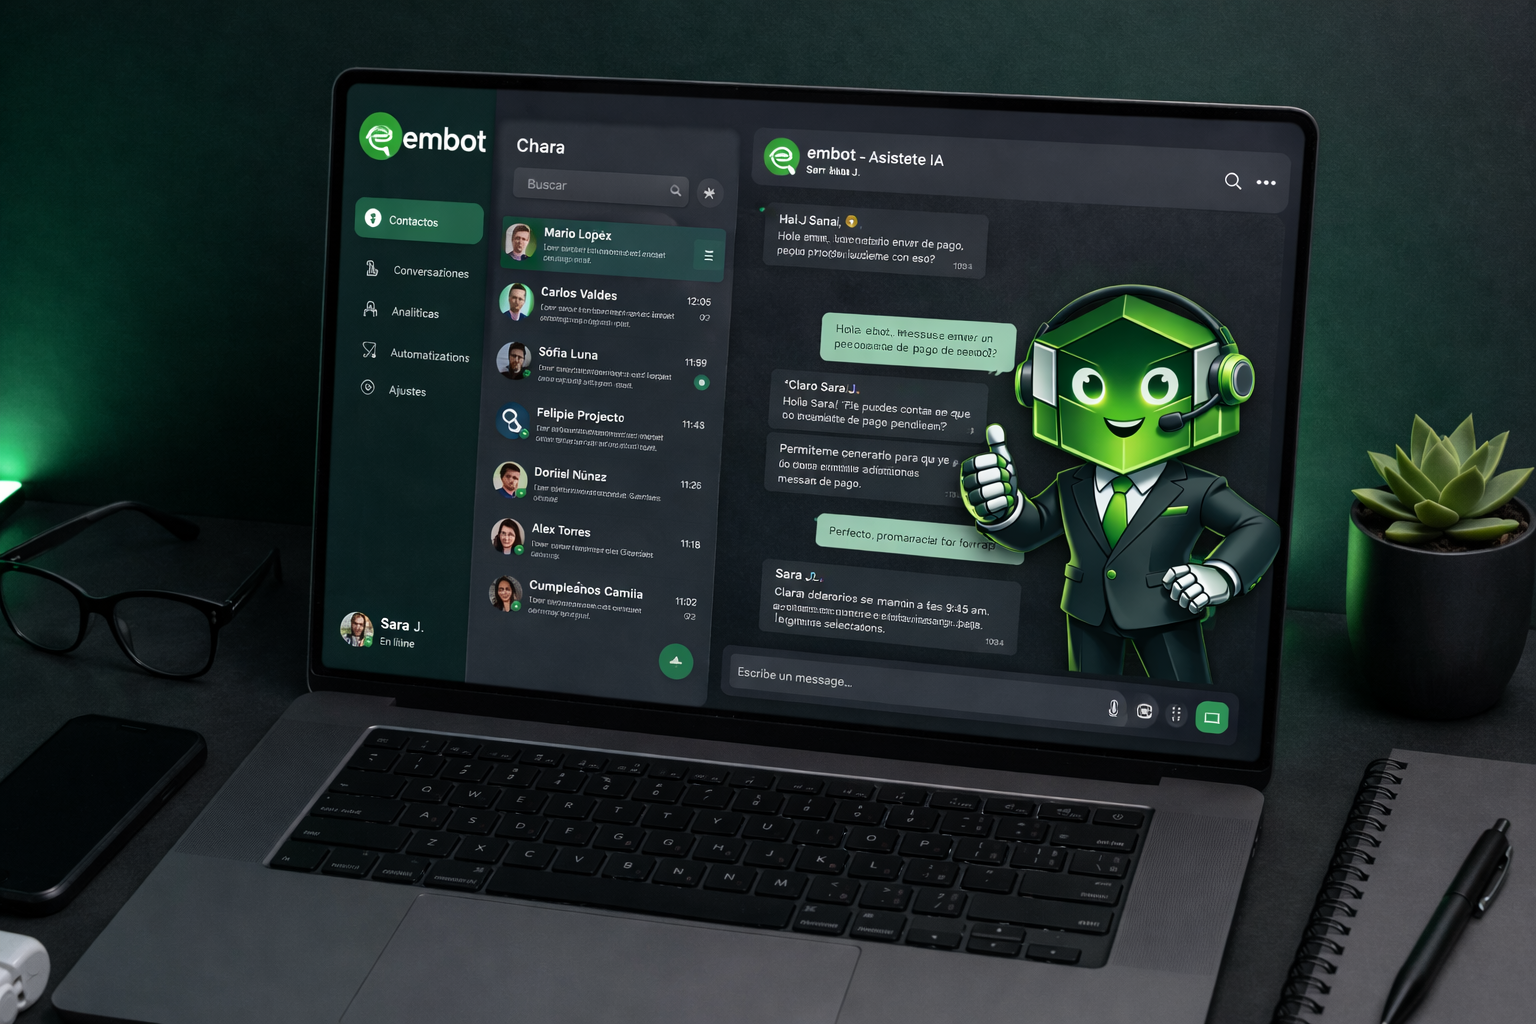
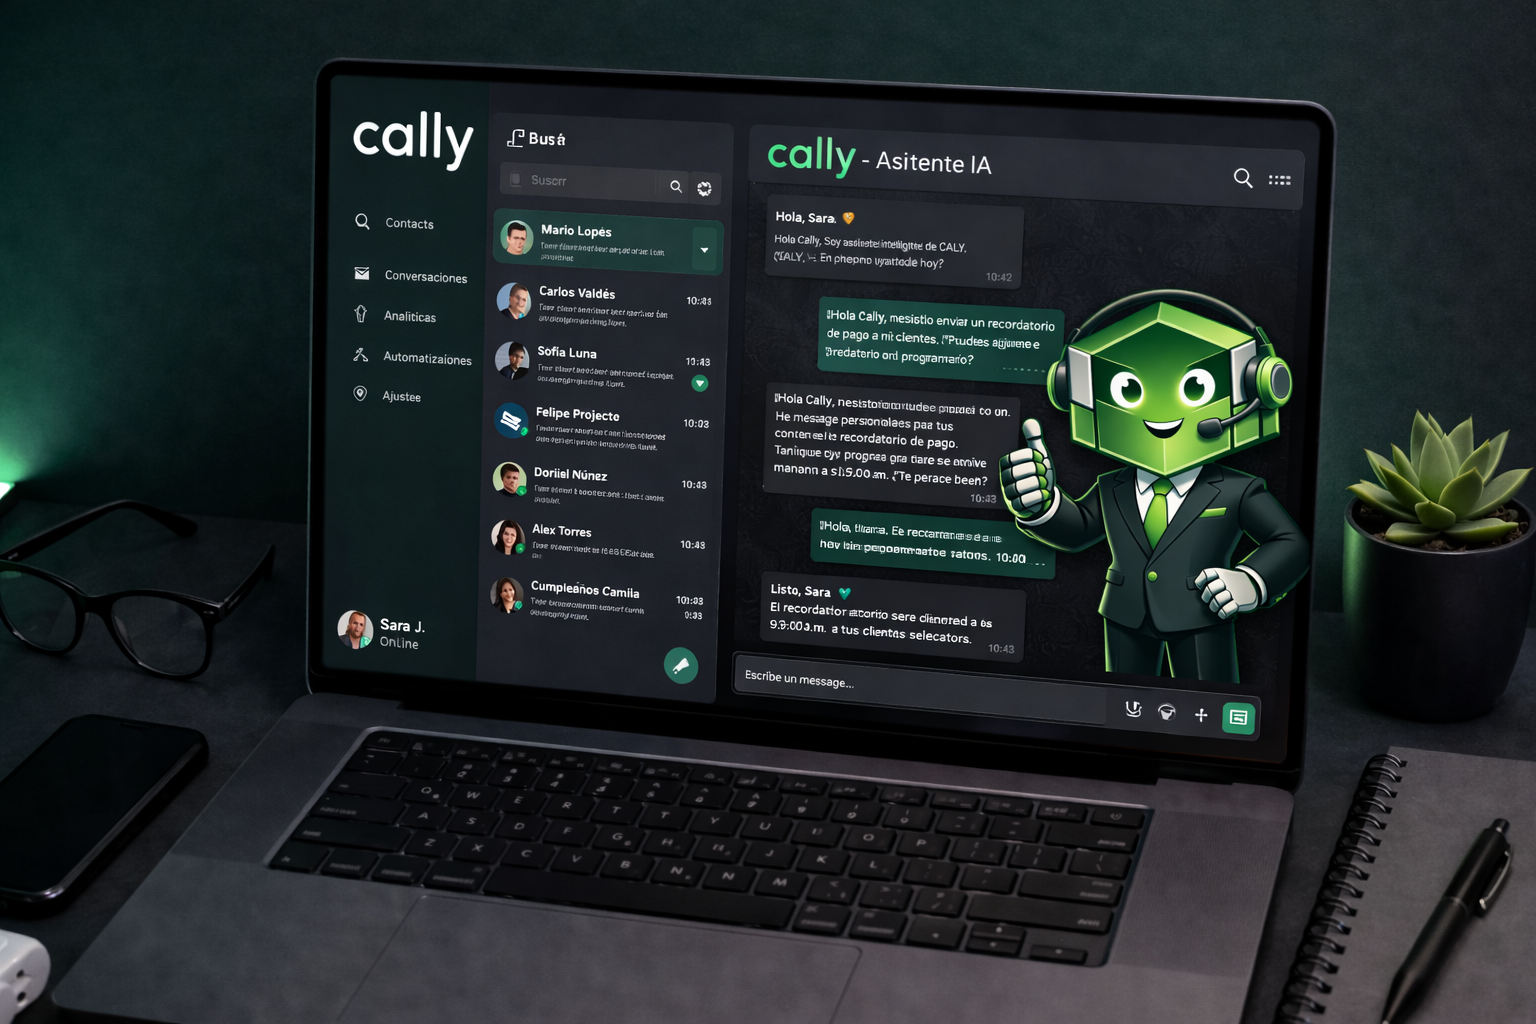
feat: simplify chatbot toggle in templates UI

diff --git a/src/pages/Templates.tsx b/src/pages/Templates.tsx
@@ -1,7 +1,7 @@
 import { useState, useEffect } from 'react';
 import { WA_API_URL } from '../config';
 import { Card } from '../components/ui/Card';
-import { Plus, Search, FileText, Edit2, Trash2, Save, X, Layers, MessageSquare, Tag, Sparkles, Link as LinkIcon, ExternalLink, Bot } from 'lucide-react';
+import { Plus, Search, FileText, Edit2, Trash2, Save, X, Layers, MessageSquare, Tag, Link as LinkIcon, ExternalLink, Bot } from 'lucide-react';
 
 type Template = {
   id: string;
@@ -162,10 +162,7 @@ export default function Templates() {
     }
   };
 
-  const updateMenuConfig = (newConfig: any) => {
-    setMenuConfig(newConfig);
-    localStorage.setItem('chatbot_menu_config', JSON.stringify(newConfig));
-  };
+
 
   const updateKeywordConfig = (newConfig: any) => {
     setKeywordConfig(newConfig);
@@ -249,27 +246,14 @@ export default function Templates() {
         <div className="flex flex-col md:flex-row md:items-center justify-between gap-6">
           <div className="flex items-center gap-4">
             <div className="w-12 h-12 rounded-2xl bg-brand-500/10 flex items-center justify-center text-brand-600 dark:text-brand-400 border border-brand-500/20">
-              <Sparkles className="w-6 h-6" />
+              <Bot className="w-6 h-6" />
             </div>
             <div>
-              <h3 className="text-text-main font-semibold">Auto-Respuesta Global</h3>
-              <p className="text-xs text-text-muted">Si alguien te escribe por primera vez, el sistema responderá automáticamente con la plantilla elegida.</p>
+              <h3 className="text-text-main font-semibold">Asistente Cally (Flujo Principal)</h3>
+              <p className="text-xs text-text-muted">Enciende o apaga tu chatbot avanzado de WhatsApp. El flujo y las 5 opciones se manejan desde el servidor.</p>
             </div>
           </div>
           <div className="flex flex-wrap items-center gap-4">
-            <div className="flex items-center gap-3 bg-surface p-2 rounded-xl border border-border-subtle">
-              <span className="text-xs text-text-muted ml-2">Seleccionar Plantilla:</span>
-              <select 
-                className="bg-surface text-sm text-text-main outline-none px-3 py-1 rounded-lg border border-border-subtle min-w-[200px]"
-                value={autoResponse.templateId}
-                onChange={(e) => updateAutoResponse({ ...autoResponse, templateId: e.target.value })}
-              >
-                <option value="" disabled className="bg-card text-text-main">Selecciona una plantilla...</option>
-                {templates.map(t => (
-                  <option key={t.id} value={t.id} className="bg-card text-text-main">{t.name}</option>
-                ))}
-              </select>
-            </div>
             <button
               onClick={() => updateAutoResponse({ ...autoResponse, enabled: !autoResponse.enabled })}
               className={`px-6 py-2 rounded-xl text-sm font-semibold transition-all border ${
@@ -284,73 +268,6 @@ export default function Templates() {
         </div>
       </Card>
 
-      <Card className="p-6 border-brand-500/20 bg-brand-500/5">
-        <div className="flex flex-col gap-6">
-          <div className="flex flex-col md:flex-row md:items-center justify-between gap-6">
-            <div className="flex items-center gap-4">
-              <div className="w-12 h-12 rounded-2xl bg-brand-500/10 flex items-center justify-center text-brand-600 dark:text-brand-400 border border-brand-500/20">
-                <Layers className="w-6 h-6" />
-              </div>
-              <div>
-                <h3 className="text-text-main font-semibold">Menú Interactivo (Chatbot)</h3>
-                <p className="text-xs text-text-muted">Envía un menú de opciones después del saludo y responde automáticamente a números.</p>
-              </div>
-            </div>
-            <button
-              onClick={() => updateMenuConfig({ ...menuConfig, enabled: !menuConfig.enabled })}
-              className={`px-6 py-2 rounded-xl text-sm font-semibold transition-all border ${
-                menuConfig.enabled 
-                  ? 'bg-brand-600 border-brand-500 text-text-main shadow-lg shadow-brand-500/20' 
-                  : 'bg-surface border-border-subtle text-text-muted hover:text-text-main'
-              }`}
-            >
-              {menuConfig.enabled ? 'Bot Activado' : 'Bot Desactivado'}
-            </button>
-          </div>
-
-          {menuConfig.enabled && (
-            <div className="grid grid-cols-1 md:grid-cols-2 lg:grid-cols-4 gap-4 animate-in fade-in slide-in-from-top-2">
-              {[ "1", "2", "3", "4" ].map(num => (
-                <div key={num} className="bg-surface/50 p-4 rounded-xl border border-border-subtle space-y-3">
-                  <div className="flex items-center justify-between">
-                    <label className="block text-[10px] text-text-muted font-bold uppercase tracking-widest">Opción {num}</label>
-                  </div>
-                  
-                  <div>
-                    <select 
-                      className="w-full bg-surface border border-border-subtle rounded-lg py-1.5 px-3 text-xs text-text-main outline-none focus:border-brand-500"
-                      value={menuConfig.options[num]?.templateId || ''}
-                      onChange={(e) => {
-                        const newOpts = { ...menuConfig.options, [num]: { ...menuConfig.options[num], templateId: e.target.value } };
-                        updateMenuConfig({ ...menuConfig, options: newOpts });
-                      }}
-                    >
-                      <option value="" disabled className="bg-card text-text-main">Asignar plantilla...</option>
-                      {templates.map(t => (
-                        <option key={t.id} value={t.id} className="bg-card text-text-main">{t.name}</option>
-                      ))}
-                    </select>
-                  </div>
-
-                  <div>
-                    <label className="block text-[8px] text-text-muted mb-1 font-bold uppercase tracking-widest pl-1">WhatsApp de Asesores (Separa con ,)</label>
-                    <input 
-                      type="text"
-                      className="w-full bg-card border border-border-subtle rounded-lg py-1 px-3 text-[10px] text-text-main focus:border-brand-500 outline-none"
-                      placeholder="Ej: 57300123, 57310456"
-                      value={menuConfig.options[num]?.agentNumber || ''}
-                      onChange={(e) => {
-                        const newOpts = { ...menuConfig.options, [num]: { ...menuConfig.options[num], agentNumber: e.target.value } };
-                        updateMenuConfig({ ...menuConfig, options: newOpts });
-                      }}
-                    />
-                  </div>
-                </div>
-              ))}
-            </div>
-          )}
-        </div>
-      </Card>
 
       <Card className="p-6 border-brand-500/20 bg-brand-500/5">
         <div className="flex flex-col gap-6">
